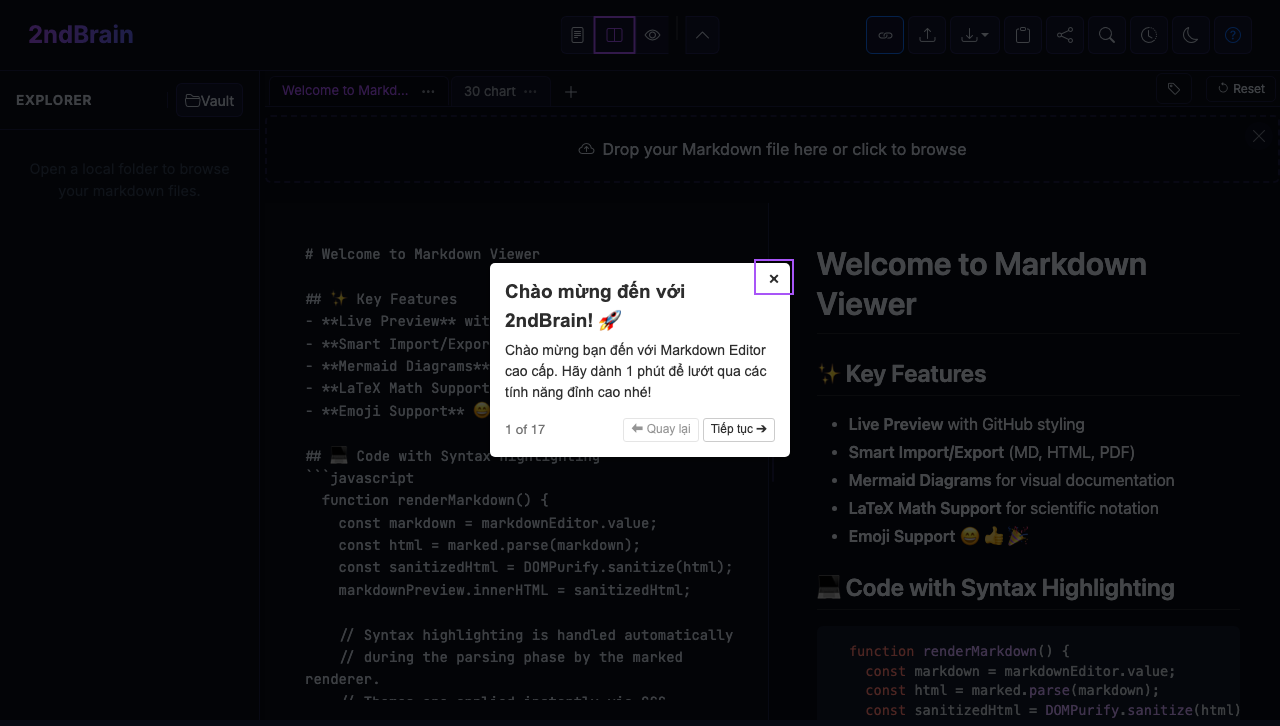
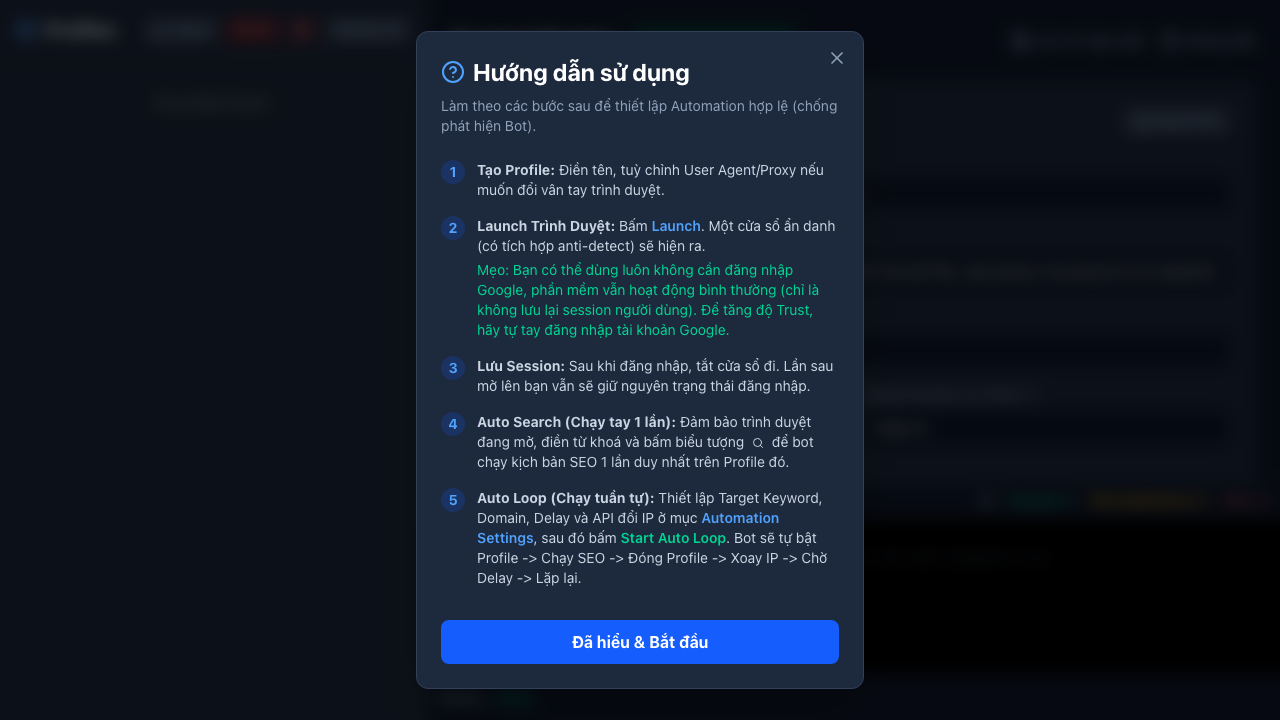
test(visual): attach baseline images to report and remove fullPage to reduce flakiness

diff --git a/tests/visual.spec.js b/tests/visual.spec.js
@@ -1,4 +1,5 @@
 import { test, expect } from '@playwright/test';
+import fs from 'fs';
 
 test.describe('Visual Regression Testing', () => {
   test('trang chủ lúc mới vào (Light Mode)', async ({ page }) => {
@@ -15,13 +16,17 @@ test.describe('Visual Regression Testing', () => {
     });
 
     // 3. Chụp màn hình và so sánh! (Lần đầu chạy nó sẽ tự tạo file mẫu)
-    // - maxDiffPixels: cho phép lệch tối đa 100 pixel (do render khác nhau trên các máy)
-    // - mask: Che lại thanh cuộn (nếu có) để khỏi bị báo lỗi xàm
+    // - maxDiffPixels: cho phép lệch tối đa 100 pixel
     await expect(page).toHaveScreenshot('homepage-light-mode.png', {
       maxDiffPixels: 100,
-      fullPage: true, // Chụp toàn bộ trang, từ trên xuống dưới
       animations: 'disabled' // Đóng băng mọi animation để ảnh nhất quán
     });
+
+    // Đính kèm ảnh gốc (Baseline) vào Report để xem bằng tay
+    const snapshotPath = test.info().snapshotPath('homepage-light-mode.png');
+    if (fs.existsSync(snapshotPath)) {
+      await test.info().attach('Baseline Image', { path: snapshotPath, contentType: 'image/png' });
+    }
   });
 
   test('trang chủ lúc bật Dark Mode', async ({ page }) => {
@@ -43,8 +48,13 @@ test.describe('Visual Regression Testing', () => {
     // Chụp lại và lưu với tên khác
     await expect(page).toHaveScreenshot('homepage-dark-mode.png', {
       maxDiffPixels: 100,
-      fullPage: true,
       animations: 'disabled'
     });
+
+    // Đính kèm ảnh gốc (Baseline) vào Report
+    const snapshotPath = test.info().snapshotPath('homepage-dark-mode.png');
+    if (fs.existsSync(snapshotPath)) {
+      await test.info().attach('Baseline Image', { path: snapshotPath, contentType: 'image/png' });
+    }
   });
 });